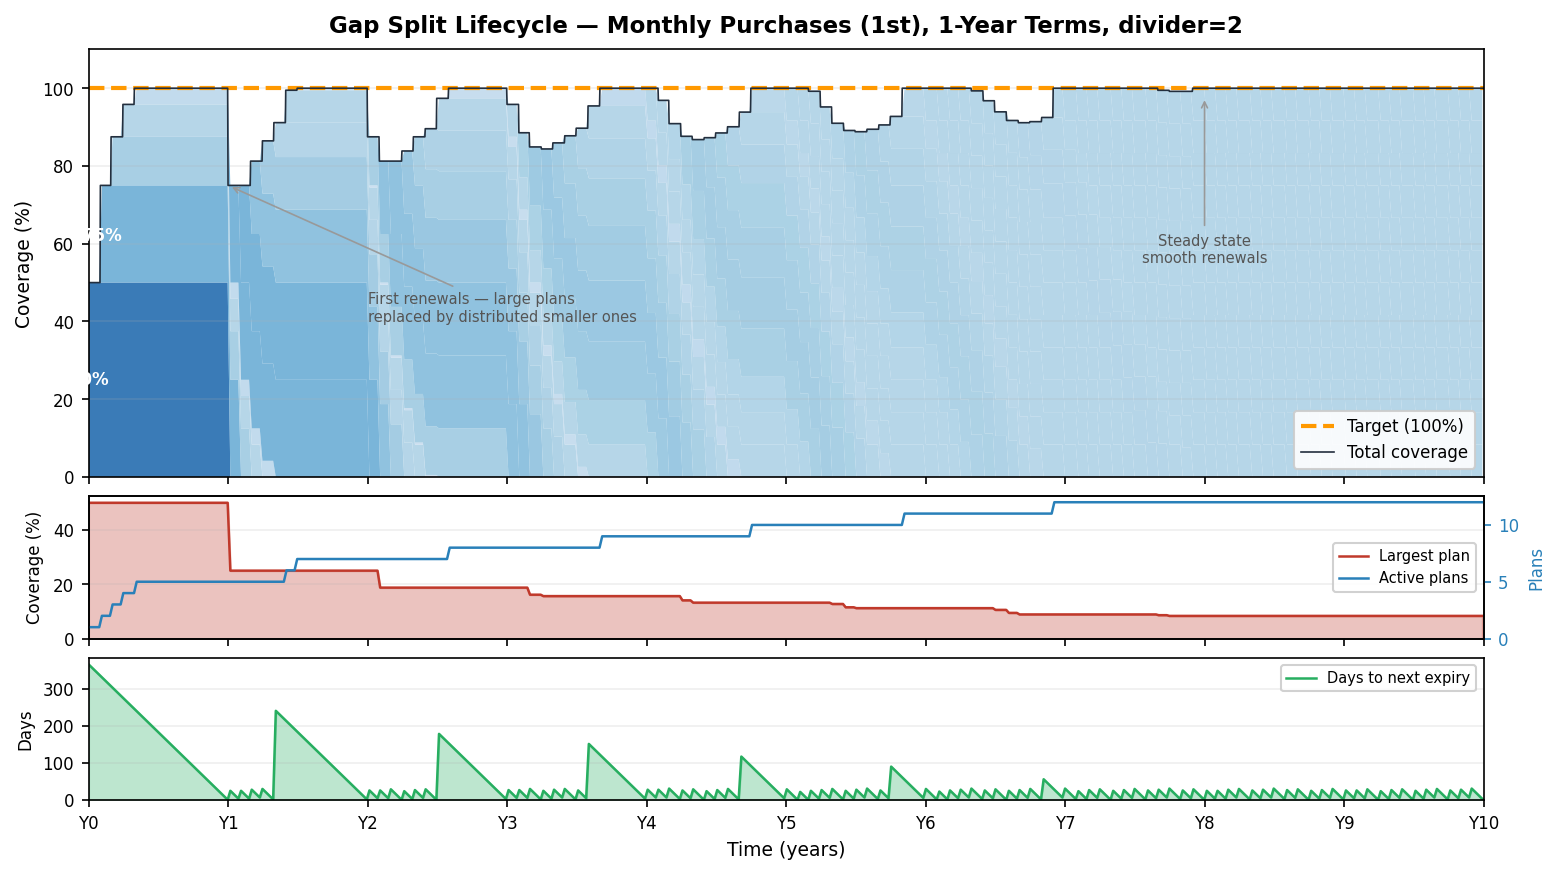
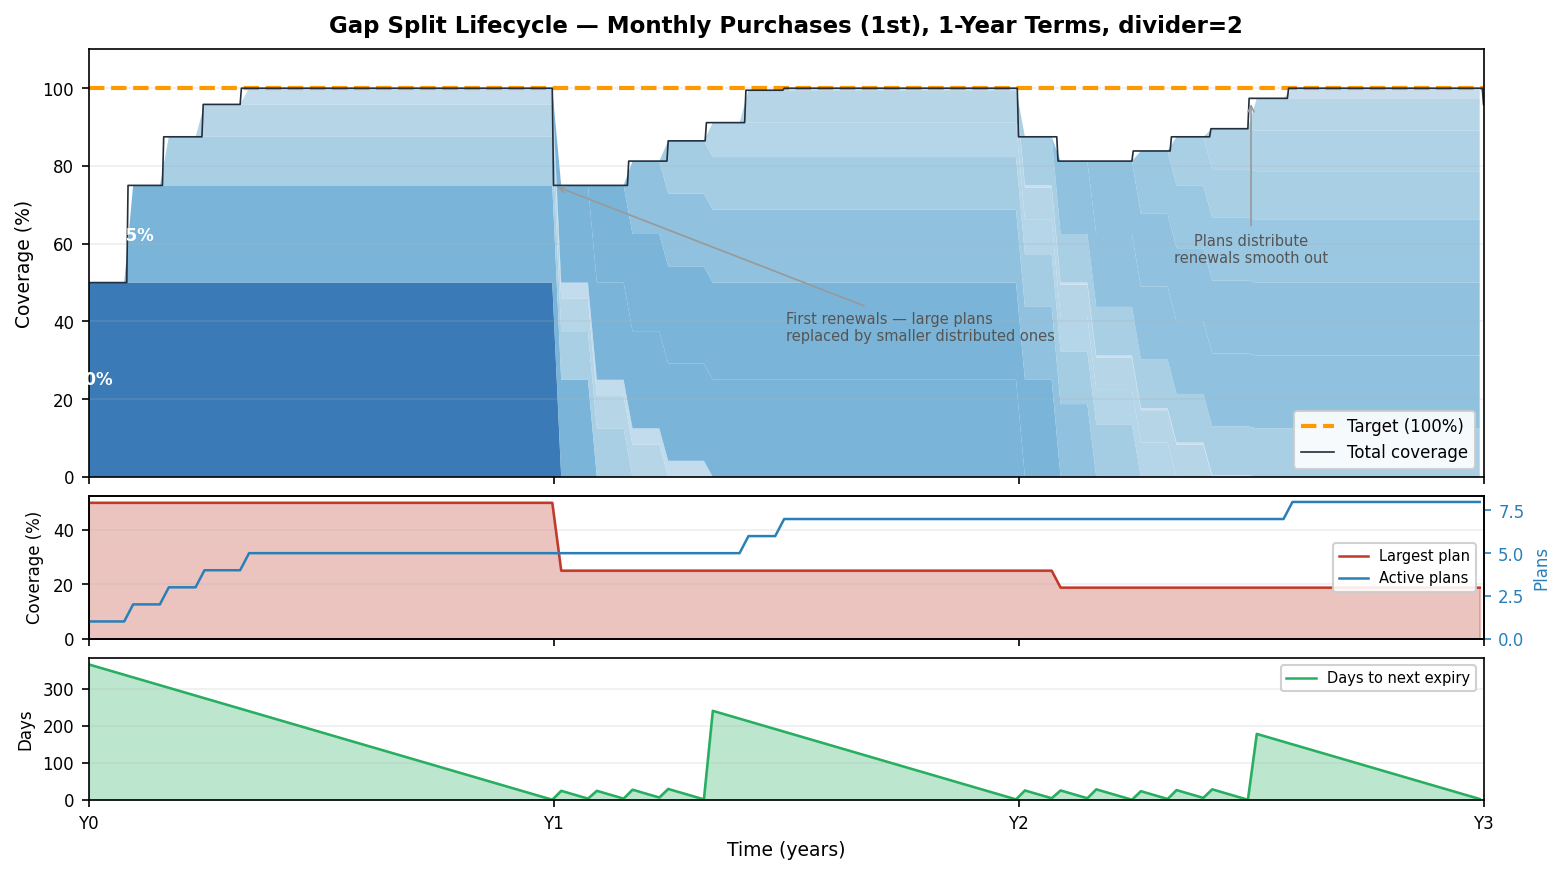
fix: shorten gap-split chart to 3 years for clarity

diff --git a/docs/generate_gap_split_chart.py b/docs/generate_gap_split_chart.py
@@ -94,7 +94,7 @@ def build_plan_history(
 def generate_chart(output_path: str = "docs/images/gap-split-lifecycle.png") -> None:
     divider = 2.0
     term_years = 1
-    total_years = 10
+    total_years = 3
 
     # min_purchase = 1/12 of total — at most 12 plans per 1-year term
     min_purchase_pct = 100.0 / 12
@@ -140,14 +140,14 @@ def generate_chart(output_path: str = "docs/images/gap-split-lifecycle.png") -> 
         ha="center", va="center",
     )
     ax.annotate(
-        "First renewals — large plans\nreplaced by distributed smaller ones",
-        xy=(1.0, 75), xytext=(2.0, 40),
+        "First renewals — large plans\nreplaced by smaller distributed ones",
+        xy=(1.0, 75), xytext=(1.5, 35),
         fontsize=7, color="#555",
         arrowprops=dict(arrowstyle="->", color="#999", lw=0.8),
     )
     ax.annotate(
-        "Steady state\nsmooth renewals",
-        xy=(8.0, 98), xytext=(8.0, 55),
+        "Plans distribute\nrenewals smooth out",
+        xy=(2.5, 97), xytext=(2.5, 55),
         fontsize=7, color="#555", ha="center",
         arrowprops=dict(arrowstyle="->", color="#999", lw=0.8),
     )
